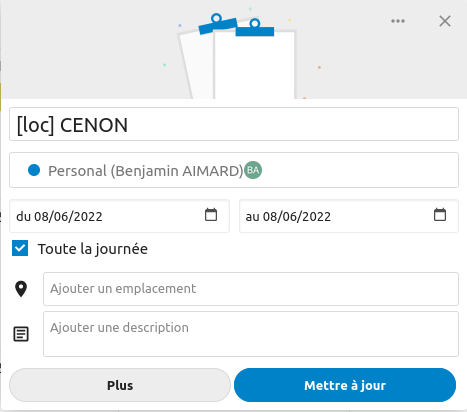
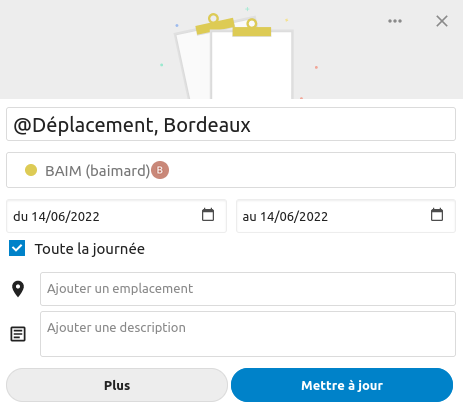
0.0.5

diff --git a/templates/content/modal.php b/templates/content/modal.php
@@ -5,7 +5,7 @@
 		<hr/>
 		<p><b><?php p($l->t('This application summarizes the workplaces of employees/persons from the calendar.')); ?></b></p>
 		<br/>
-		<p><?php p($l->t('Just put in the calendar a day event with [loc] at the beginning followed by your workplaces. You can add a comment to your workplaces with ",". Example [loc] PARIS, meet customer !')); ?></p>
+		<p><?php p($l->t('Just put in the calendar a day event with @ at the beginning followed by your workplaces. You can add a comment to your workplaces with ",". Example "@ PARIS, meet customer !"')); ?></p>
 		<p><img src="<?php print_unescaped(image_path('whereami', 'example.png')); ?>" /></p>
 	</div>
 </div>

diff --git a/templates/navigation/index.php b/templates/navigation/index.php
@@ -1,5 +1,5 @@
 <ul class="app-navigation">
-    <li class="app-navigation-entry"><span class="navmarg"></span><span>V0.0.4</span></li>
+    <li class="app-navigation-entry"><span class="navmarg"></span><span>V0.0.5</span></li>
 	<li class="app-navigation-entry"><span class="navmarg"></span><input style="width: 200px;" id="dtStart" type="date"/></li>
 	<li class="app-navigation-entry"><span class="navmarg"></span><input style="width: 200px;" id="dtEnd" type="date"/></li>
 	<li class="app-navigation-entry"><span class="navmarg"></span><button style="width: 200px;" class="showbyemployees"><?php p($l->t('By employees'));?></button></li>
